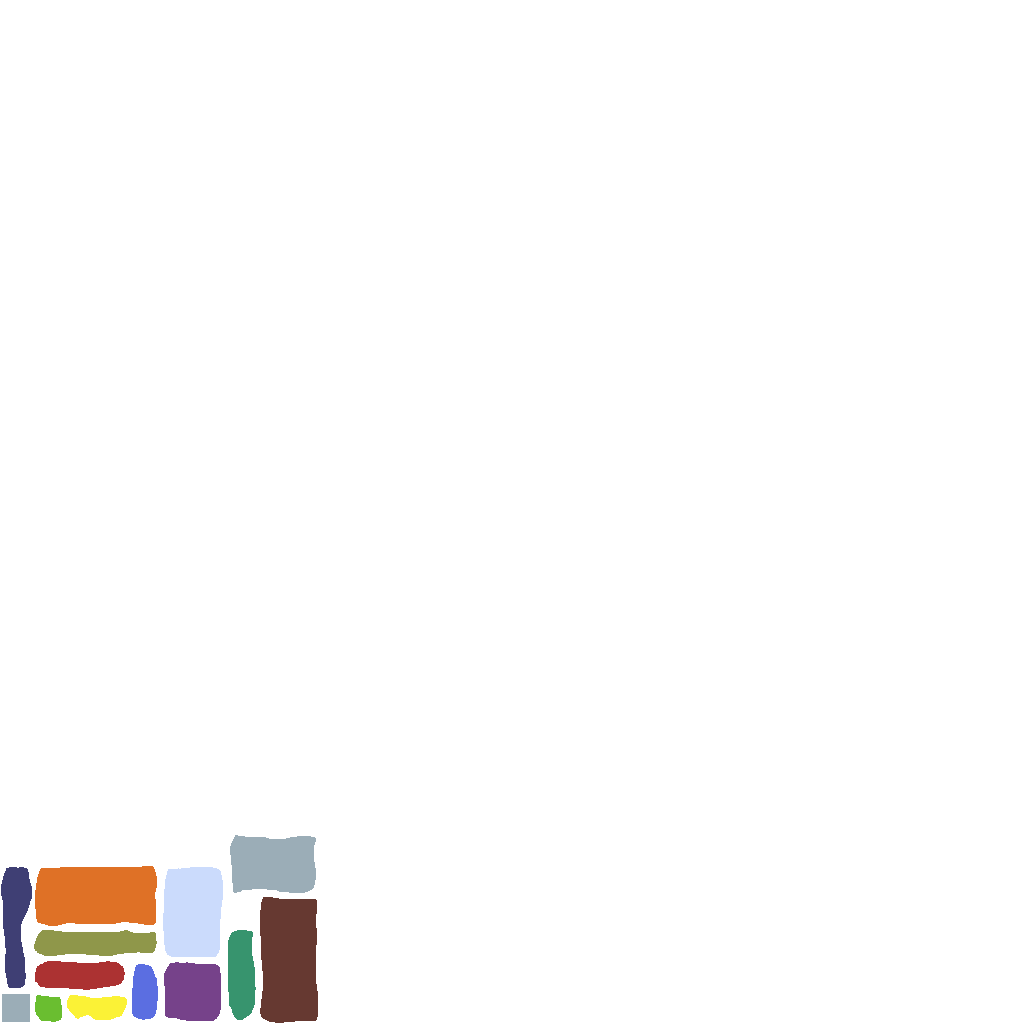
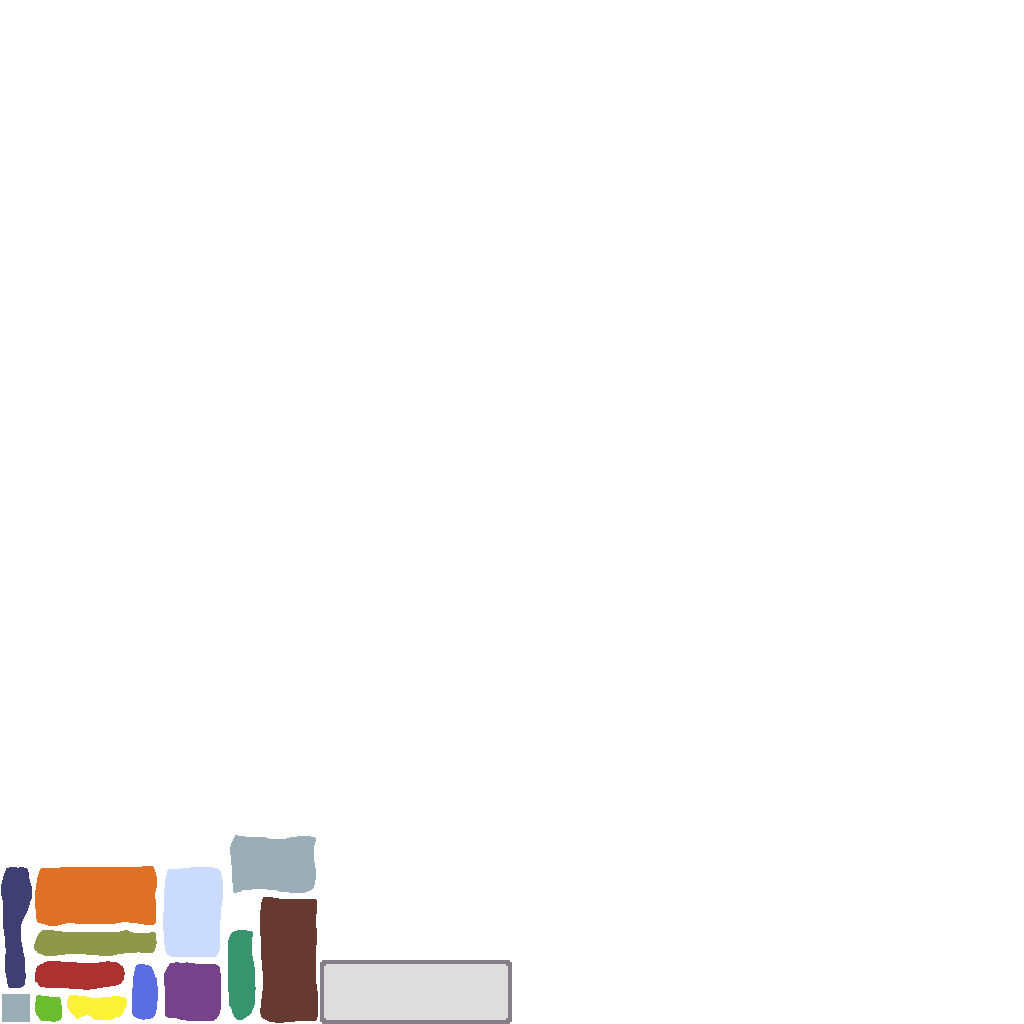
adding transition

Changed region(s): [[0.3125, 0.9375, 0.5, 1.0]]

diff --git a/internal/systems/scoreboard.go b/internal/systems/scoreboard.go
@@ -1,10 +1,14 @@
 package systems
 
 import (
+	"fmt"
 	"github.com/faiface/pixel"
 	"golang.org/x/image/colornames"
+	"ludum-dare-54/internal/constants"
 	"ludum-dare-54/internal/data"
 	"ludum-dare-54/internal/myecs"
+	"ludum-dare-54/pkg/img"
+	"ludum-dare-54/pkg/object"
 	"ludum-dare-54/pkg/typeface"
 )
 
@@ -12,7 +16,7 @@ func ScoreboardInit() {
 	data.LeftCount = typeface.New("main", typeface.NewAlign(typeface.Left, typeface.Top), 1.2, 0.15, 300., 0.)
 	data.LeftCount.Obj.Layer = 30
 	data.LeftCount.SetColor(pixel.ToRGBA(colornames.Black))
-	data.LeftCount.SetPos(pixel.V(-data.ScoreView.Rect.W()*0.5+8., data.ScoreView.Rect.H()-8.))
+	data.LeftCount.SetPos(pixel.V(-140, 170))
 	data.LeftCount.SetText("Wares: 18\n$50.00")
 	myecs.Manager.NewEntity().
 		AddComponent(myecs.Object, data.LeftCount.Obj).
@@ -22,30 +26,73 @@ func ScoreboardInit() {
 	data.RightCount = typeface.New("main", typeface.NewAlign(typeface.Right, typeface.Top), 1.2, 0.15, 300., 0.)
 	data.RightCount.Obj.Layer = 30
 	data.RightCount.SetColor(pixel.ToRGBA(colornames.Black))
-	data.RightCount.SetPos(pixel.V(data.ScoreView.Rect.W()*0.5-8., data.ScoreView.Rect.H()-8.))
+	data.RightCount.SetPos(pixel.V(140, 170))
 	data.RightCount.SetText("Deliveries\n0 Complete\n0 Missed")
 	myecs.Manager.NewEntity().
 		AddComponent(myecs.Object, data.RightCount.Obj).
 		AddComponent(myecs.Drawable, data.RightCount).
 		AddComponent(myecs.DrawTarget, data.ScoreView)
 
-	data.PercCount = typeface.New("main", typeface.NewAlign(typeface.Center, typeface.Center), 1.2, 0.35, 300., 0.)
+	data.PercCount = typeface.New("main", typeface.NewAlign(typeface.Center, typeface.Center), 1.2, 0.4, 300., 0.)
 	data.PercCount.Obj.Layer = 30
 	data.PercCount.SetColor(pixel.ToRGBA(colornames.Black))
-	data.PercCount.SetPos(pixel.V(0., 65.))
+	data.PercCount.SetPos(pixel.V(0., 25.))
 	data.PercCount.SetText("44% Full")
 	myecs.Manager.NewEntity().
 		AddComponent(myecs.Object, data.PercCount.Obj).
 		AddComponent(myecs.Drawable, data.PercCount).
 		AddComponent(myecs.DrawTarget, data.ScoreView)
 
-	data.TimerCount = typeface.New("main", typeface.NewAlign(typeface.Center, typeface.Center), 1.2, 0.35, 300., 0.)
+	data.TimerCount = typeface.New("main", typeface.NewAlign(typeface.Center, typeface.Center), 1.2, 0.4, 300., 0.)
 	data.TimerCount.Obj.Layer = 30
 	data.TimerCount.SetColor(pixel.ToRGBA(colornames.Black))
-	data.TimerCount.SetPos(pixel.V(0., 65.))
+	data.TimerCount.SetPos(pixel.V(0., 25.))
 	data.TimerCount.SetText("16.012")
 	myecs.Manager.NewEntity().
 		AddComponent(myecs.Object, data.TimerCount.Obj).
 		AddComponent(myecs.Drawable, data.TimerCount).
 		AddComponent(myecs.DrawTarget, data.ScoreView)
+
+	data.ButtonText = typeface.New("main", typeface.NewAlign(typeface.Center, typeface.Center), 1.2, 0.24, 300., 0.)
+	data.ButtonText.Obj.Layer = 30
+	data.ButtonText.SetColor(pixel.ToRGBA(colornames.Black))
+	data.ButtonText.SetPos(pixel.V(0., -100.))
+	data.ButtonText.SetText("Set Out")
+	myecs.Manager.NewEntity().
+		AddComponent(myecs.Object, data.ButtonText.Obj).
+		AddComponent(myecs.Drawable, data.ButtonText).
+		AddComponent(myecs.DrawTarget, data.ScoreView)
+
+	data.ButtonLock = true
+	clickedOn := false
+	data.ButtonSpr = img.NewSprite("button", constants.TestBatch)
+	spr := img.Batchers[constants.TestBatch].GetSprite("button")
+	data.ButtonObj = object.New()
+	data.ButtonObj.SetRect(spr.Frame())
+	data.ButtonObj.Layer = 29
+	data.ButtonObj.Pos = pixel.V(0., -115.)
+	myecs.Manager.NewEntity().
+		AddComponent(myecs.Object, data.ButtonObj).
+		AddComponent(myecs.Drawable, data.ButtonSpr).
+		AddComponent(myecs.Update, data.NewHoverClickFn(data.GameInput, data.ScoreView, func(hvc *data.HoverClick) {
+			if !data.ButtonLock {
+				click := hvc.Input.Get("click")
+				data.ButtonSpr.Color = pixel.RGB(1, 1, 1)
+				if hvc.Hover {
+					if click.JustPressed() {
+						clickedOn = true
+					}
+					if click.Pressed() && clickedOn {
+						data.ButtonSpr.Color = pixel.RGB(0.9, 0.9, 0.9)
+					} else if click.JustReleased() && clickedOn {
+						// leave the packing state
+						fmt.Println("leave")
+					}
+				} else if clickedOn && !click.Pressed() {
+					clickedOn = false
+				}
+			} else {
+				data.ButtonText.SetColor(pixel.RGB(0.7, 0.7, 0.7))
+			}
+		}))
 }

diff --git a/internal/states/transition.go b/internal/states/transition.go
@@ -1,0 +1,88 @@
+package states
+
+import (
+	"fmt"
+	"github.com/faiface/pixel"
+	"github.com/faiface/pixel/pixelgl"
+	"golang.org/x/image/colornames"
+	"ludum-dare-54/internal/data"
+	"ludum-dare-54/internal/myecs"
+	"ludum-dare-54/internal/systems"
+	"ludum-dare-54/pkg/debug"
+	"ludum-dare-54/pkg/options"
+	"ludum-dare-54/pkg/state"
+	"ludum-dare-54/pkg/timing"
+	"ludum-dare-54/pkg/viewport"
+)
+
+type transitionState struct {
+	*state.AbstractState
+}
+
+func (s *transitionState) Unload() {
+
+}
+
+func (s *transitionState) Load() {
+	if data.GameView == nil {
+		data.GameView = viewport.New(nil)
+		data.GameView.SetRect(pixel.R(0, 0, 640, 360))
+	}
+	data.GameView.CamPos = pixel.ZV
+}
+
+func (s *transitionState) Update(win *pixelgl.Window) {
+	debug.AddText("Transition State")
+	data.GameInput.Update(win, viewport.MainCamera.Mat)
+	debug.AddIntCoords("World", int(data.GameInput.World.X), int(data.GameInput.World.Y))
+	inPos := data.GameView.ProjectWorld(data.GameInput.World)
+	debug.AddIntCoords("GameView World", int(inPos.X), int(inPos.Y))
+
+	if data.DebugInput.Get("debugSP").JustPressed() {
+		data.ScoreView.ZoomIn(1.)
+	} else if data.DebugInput.Get("debugSM").JustPressed() {
+		data.ScoreView.ZoomIn(-1.)
+	}
+	if data.DebugInput.Get("camUp").Pressed() {
+		data.GameView.CamPos.Y += 100. * timing.DT
+	} else if data.DebugInput.Get("camDown").Pressed() {
+		data.GameView.CamPos.Y -= 100. * timing.DT
+	}
+	if data.DebugInput.Get("camRight").Pressed() {
+		data.GameView.CamPos.X += 100. * timing.DT
+	} else if data.DebugInput.Get("camLeft").Pressed() {
+		data.GameView.CamPos.X -= 100. * timing.DT
+	}
+
+	systems.FunctionSystem()
+	// custom systems
+
+	// object systems
+	systems.InterpolationSystem()
+	systems.ParentSystem()
+	systems.ObjectSystem()
+
+	data.GameView.Update()
+
+	myecs.UpdateManager()
+	debug.AddText(fmt.Sprintf("Entity Count: %d", myecs.FullCount))
+}
+
+func (s *transitionState) Draw(win *pixelgl.Window) {
+	data.GameView.Canvas.Clear(colornames.Red)
+
+	systems.TemporarySystem()
+	if options.Updated {
+		s.UpdateViews()
+	}
+}
+
+func (s *transitionState) SetAbstract(aState *state.AbstractState) {
+	s.AbstractState = aState
+}
+
+func (s *transitionState) UpdateViews() {
+	data.GameView.PortPos = viewport.MainCamera.PostCamPos
+	data.GameView.PortSize.X = viewport.MainCamera.Rect.W() / data.GameView.Rect.W()
+	data.GameView.PortSize.Y = viewport.MainCamera.Rect.H() / data.GameView.Rect.H()
+}

diff --git a/internal/states/packing.go b/internal/states/packing.go
@@ -32,20 +32,21 @@ func (s *packingState) Load() {
 	w := 6.
 	d := 7.
 	h := 5.
-	data.GameView = viewport.New(nil)
-	data.GameView.SetRect(pixel.R(0, 0, 640, 360))
+	if data.GameView == nil {
+		data.GameView = viewport.New(nil)
+		data.GameView.SetRect(pixel.R(0, 0, 640, 360))
+	}
 	data.GameView.CamPos = pixel.ZV
 	data.GameView.CamPos.X += (w - 1) * 0.5 * world.TileSize
 	data.GameView.CamPos.Y += (math.Min(d, 3) - 1) * 0.5 * world.TileSize
 	data.ScoreView = viewport.New(nil)
-	data.ScoreView.SetRect(pixel.R(0, 0, 330, 230))
 	data.ScoreView.CamPos = pixel.V(0, data.ScoreView.Rect.H()*0.5)
-	systems.ScoreboardInit()
 	systems.CreateTruck(w, d, h)
 	data.NewScore()
 	data.BottomDrop = pixel.R(-200, -130, 340, -40)
 	data.LeftDrop = pixel.R(-200, -130, -40, 190)
 	s.UpdateViews()
+	systems.ScoreboardInit()
 }
 
 func (s *packingState) Update(win *pixelgl.Window) {
@@ -58,9 +59,9 @@ func (s *packingState) Update(win *pixelgl.Window) {
 	debug.AddIntCoords("GameView World", int(inPos.X), int(inPos.Y))
 
 	if data.DebugInput.Get("debugSP").JustPressed() {
-		data.GameView.ZoomIn(1.)
+		data.ScoreView.ZoomIn(1.)
 	} else if data.DebugInput.Get("debugSM").JustPressed() {
-		data.GameView.ZoomIn(-1.)
+		data.ScoreView.ZoomIn(-1.)
 	}
 	if data.DebugInput.Get("camUp").Pressed() {
 		data.GameView.CamPos.Y += 100. * timing.DT
@@ -107,6 +108,8 @@ func (s *packingState) Draw(win *pixelgl.Window) {
 	data.GameView.Canvas.Draw(win, data.GameView.Mat)
 
 	data.ScoreView.Canvas.Clear(colornames.White)
+	systems.DrawSystem(win, 29)
+	img.Batchers[constants.TestBatch].Draw(data.ScoreView.Canvas)
 	systems.DrawSystem(win, 30)
 	data.ScoreView.Canvas.Draw(win, data.ScoreView.Mat)
 
@@ -125,7 +128,11 @@ func (s *packingState) UpdateViews() {
 	data.GameView.PortSize.X = viewport.MainCamera.Rect.W() / data.GameView.Rect.W()
 	data.GameView.PortSize.Y = viewport.MainCamera.Rect.H() / data.GameView.Rect.H()
 
+	svw := math.Max(viewport.MainCamera.Rect.W()*0.2, 330)
+	svh := math.Max(viewport.MainCamera.Rect.H()*0.4, 330)
+	data.ScoreView.SetRect(pixel.R(0, 0, svw, svh))
+	data.ScoreView.SetZoom(viewport.MainCamera.Rect.W() / 1600)
 	data.ScoreView.PortPos = viewport.MainCamera.PostCamPos
 	data.ScoreView.PortPos.Y += (viewport.MainCamera.Rect.H()-data.ScoreView.Rect.H())*0.5 - 20.
-	data.ScoreView.PortPos.X -= 425.
+	data.ScoreView.PortPos.X -= viewport.MainCamera.Rect.W() * 0.28
 }

diff --git a/internal/systems/truck.go b/internal/systems/truck.go
@@ -1,7 +1,6 @@
 package systems
 
 import (
-	"fmt"
 	"github.com/faiface/pixel"
 	"image/color"
 	"ludum-dare-54/internal/constants"
@@ -148,6 +147,7 @@ func PlaceInTrunk(orig world.Coords, ware *data.Ware) (bool, int) {
 func UpdateTrunk() {
 	data.CurrentTruck.FilledSpace = 0
 	for i, ware := range data.CurrentTruck.Wares {
+		data.CurrentTruck.FilledSpace += len(ware.Shape)
 		ware.TIndex = i
 		ware.Buried = false
 		ware.Sprite.Color = pixel.RGB(1, 1, 1)
@@ -160,8 +160,6 @@ func UpdateTrunk() {
 				ware.Sprite.Color = pixel.RGB(0.9, 0.9, 0.9)
 			}
 		}
-		data.CurrentTruck.FilledSpace += len(ware.Shape)
 	}
 	data.CurrentTruck.UpdateFillPercent()
-	fmt.Printf("Truck is %d%% filled\n", data.CurrentTruck.PercentFilled)
 }

diff --git a/internal/data/score.go b/internal/data/score.go
@@ -2,6 +2,8 @@ package data
 
 import (
 	"ludum-dare-54/internal/constants"
+	"ludum-dare-54/pkg/img"
+	"ludum-dare-54/pkg/object"
 	"ludum-dare-54/pkg/typeface"
 )
 
@@ -29,4 +31,8 @@ var (
 	RightCount *typeface.Text
 	PercCount  *typeface.Text
 	TimerCount *typeface.Text
+	ButtonText *typeface.Text
+	ButtonSpr  *img.Sprite
+	ButtonObj  *object.Object
+	ButtonLock bool
 )

diff --git a/internal/data/packing.go b/internal/data/packing.go
@@ -2,6 +2,7 @@ package data
 
 import (
 	"github.com/faiface/pixel"
+	gween "ludum-dare-54/pkg/gween64"
 	"ludum-dare-54/pkg/timing"
 )
 
@@ -10,6 +11,9 @@ var (
 	HeldItem   *Ware
 	BottomDrop pixel.Rect
 	LeftDrop   pixel.Rect
+
+	LeavePacking bool
+	ScoreTween   *gween.Tween
 )
 
 type DragTimer struct {

diff --git a/cmd/main.go b/cmd/main.go
@@ -66,6 +66,9 @@ func run() {
 		if data.DebugInput.Get("fullscreen").JustPressed() {
 			options.FullScreen = !options.FullScreen
 		}
+		if data.DebugInput.Get("debugText").JustPressed() {
+			debug.Text = !debug.Text
+		}
 
 		state.Update(win)
 		viewport.MainCamera.Update()

diff --git a/internal/states/states.go b/internal/states/states.go
@@ -1,7 +1,9 @@
 package states
 
 var (
-	PackingStateKey = "packing_state"
+	PackingStateKey    = "packing_state"
+	TransitionStateKey = "transition_state"
 
-	PackingState = &packingState{}
+	PackingState    = &packingState{}
+	TransitionState = &transitionState{}
 )

diff --git a/internal/systems/packing.go b/internal/systems/packing.go
@@ -186,3 +186,9 @@ func GetNearestPos(pos pixel.Vec, r pixel.Rect) pixel.Vec {
 	}
 	return pixel.V(-100, -100)
 }
+
+func LeavePackingSystem() {
+	if data.LeavePacking {
+
+	}
+}
